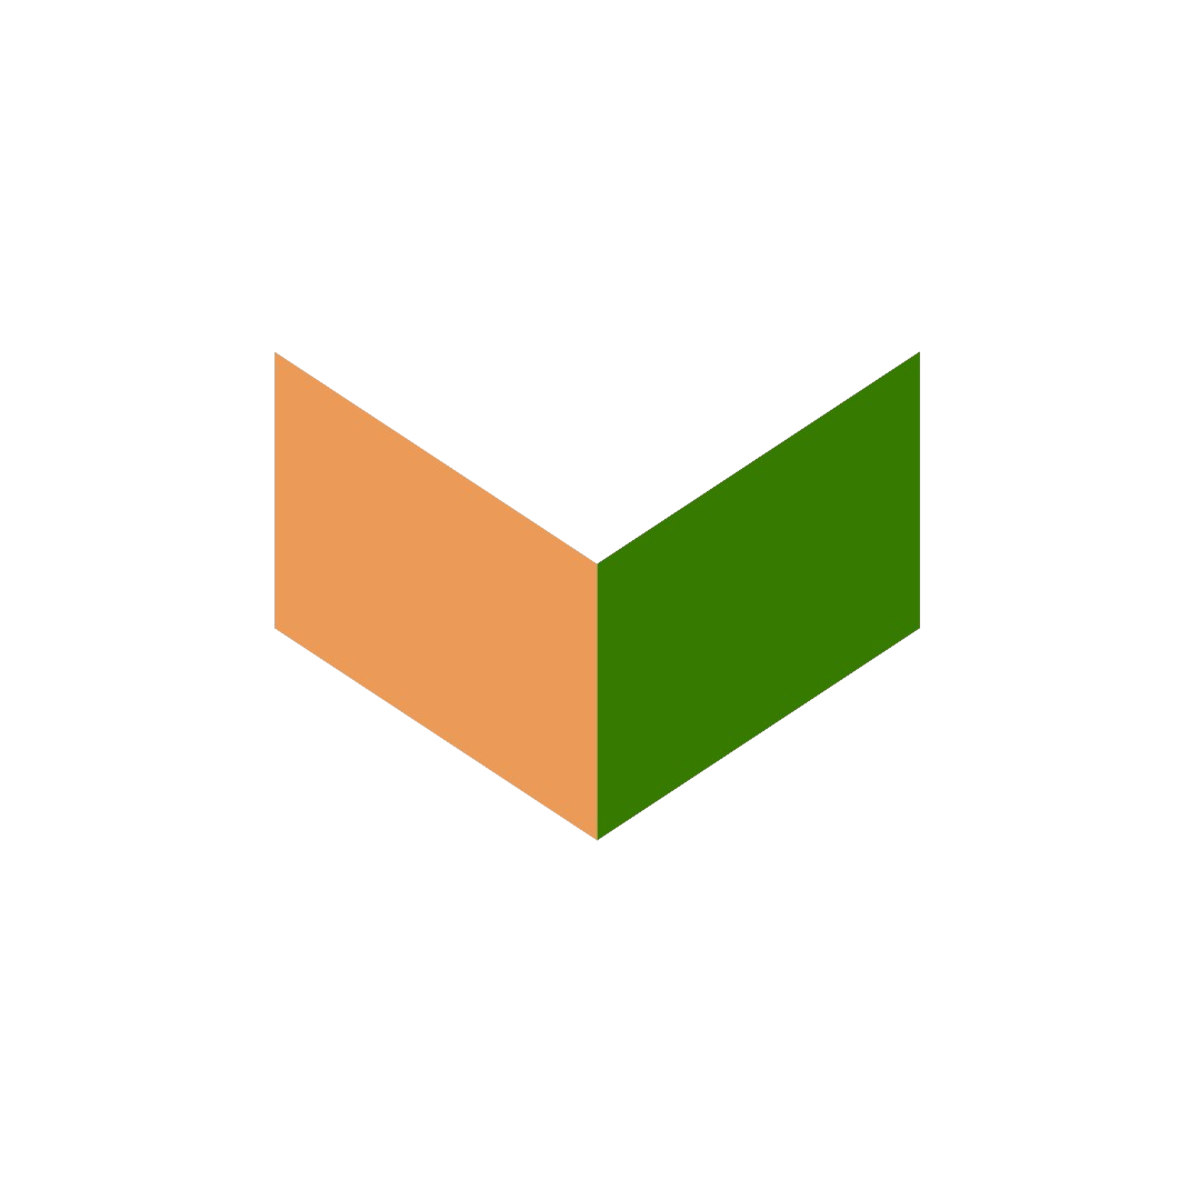
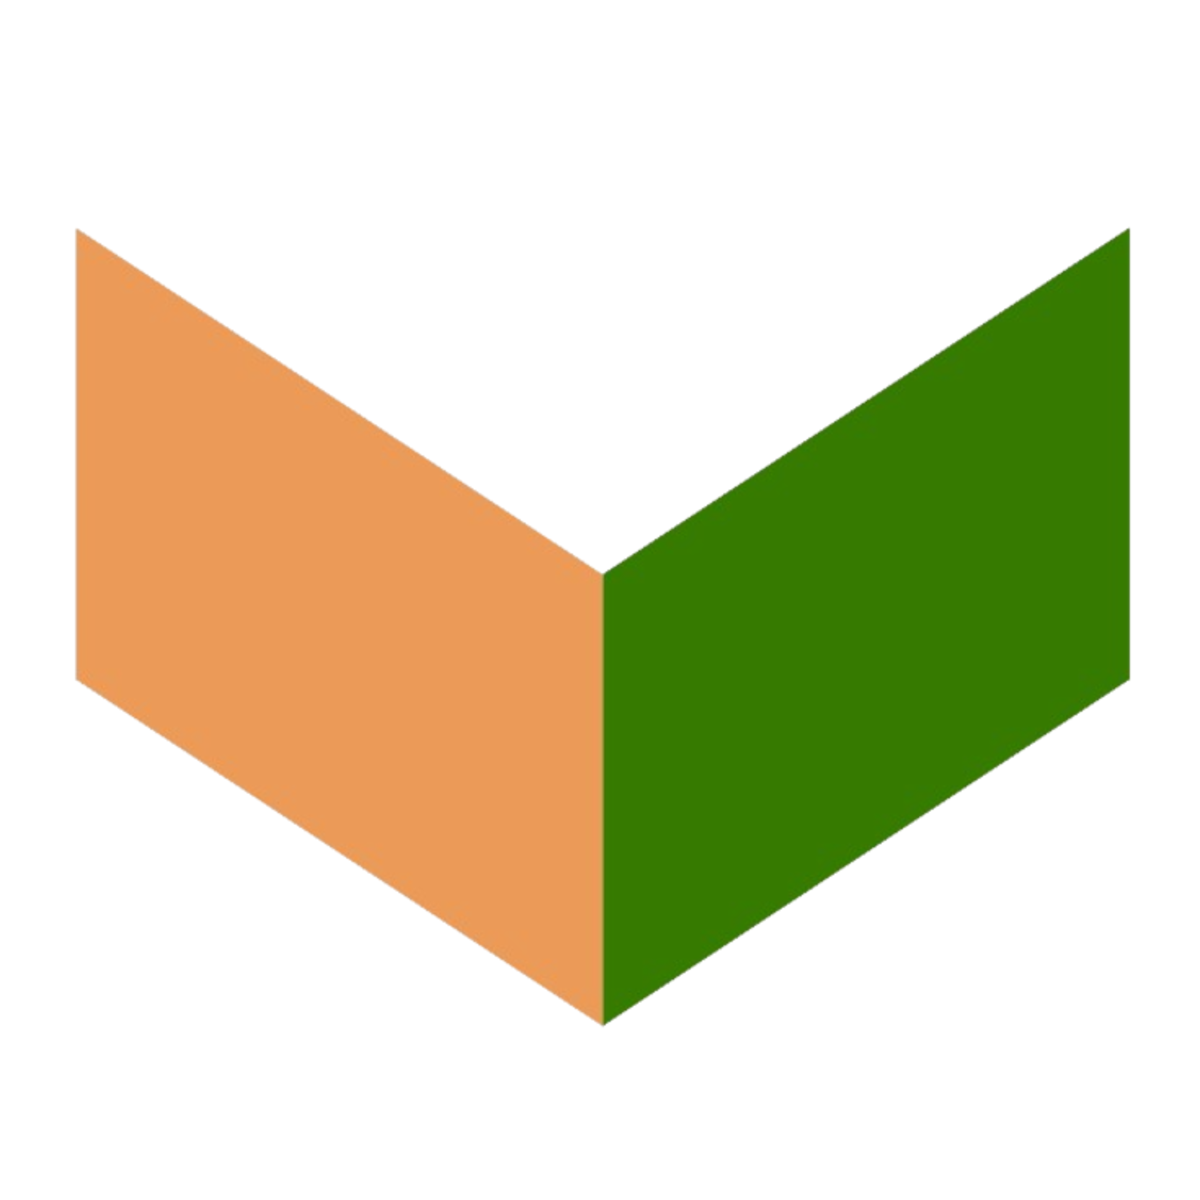
.

diff --git a/classic_instructions.md b/classic_instructions.md
@@ -293,7 +293,7 @@ npm run serve
 
 ## Step
 
-Create Logo (1200x1200)
+Create Logo Images (1200x1200) and (1200x630)
 
 - <https://www.fotor.com>
 - <https://www.remove.bg>
@@ -301,17 +301,13 @@ Create Logo (1200x1200)
 
 Revise: `static/images/1200x1200.png`.
 
+Revise: `static/images/1200x630.png`.
+
 ## Step
 
 Create `favicon.ico` - <https://iconifier.net>
 
 Revise: `static/images/favicon.ico`.
-
-## Step
-
-Create `og:image` **1200x630** image <https://www.iloveimg.com/crop-image>
-
-Revise: `static/images/1200x630.png`.
 
 ## Step
 
